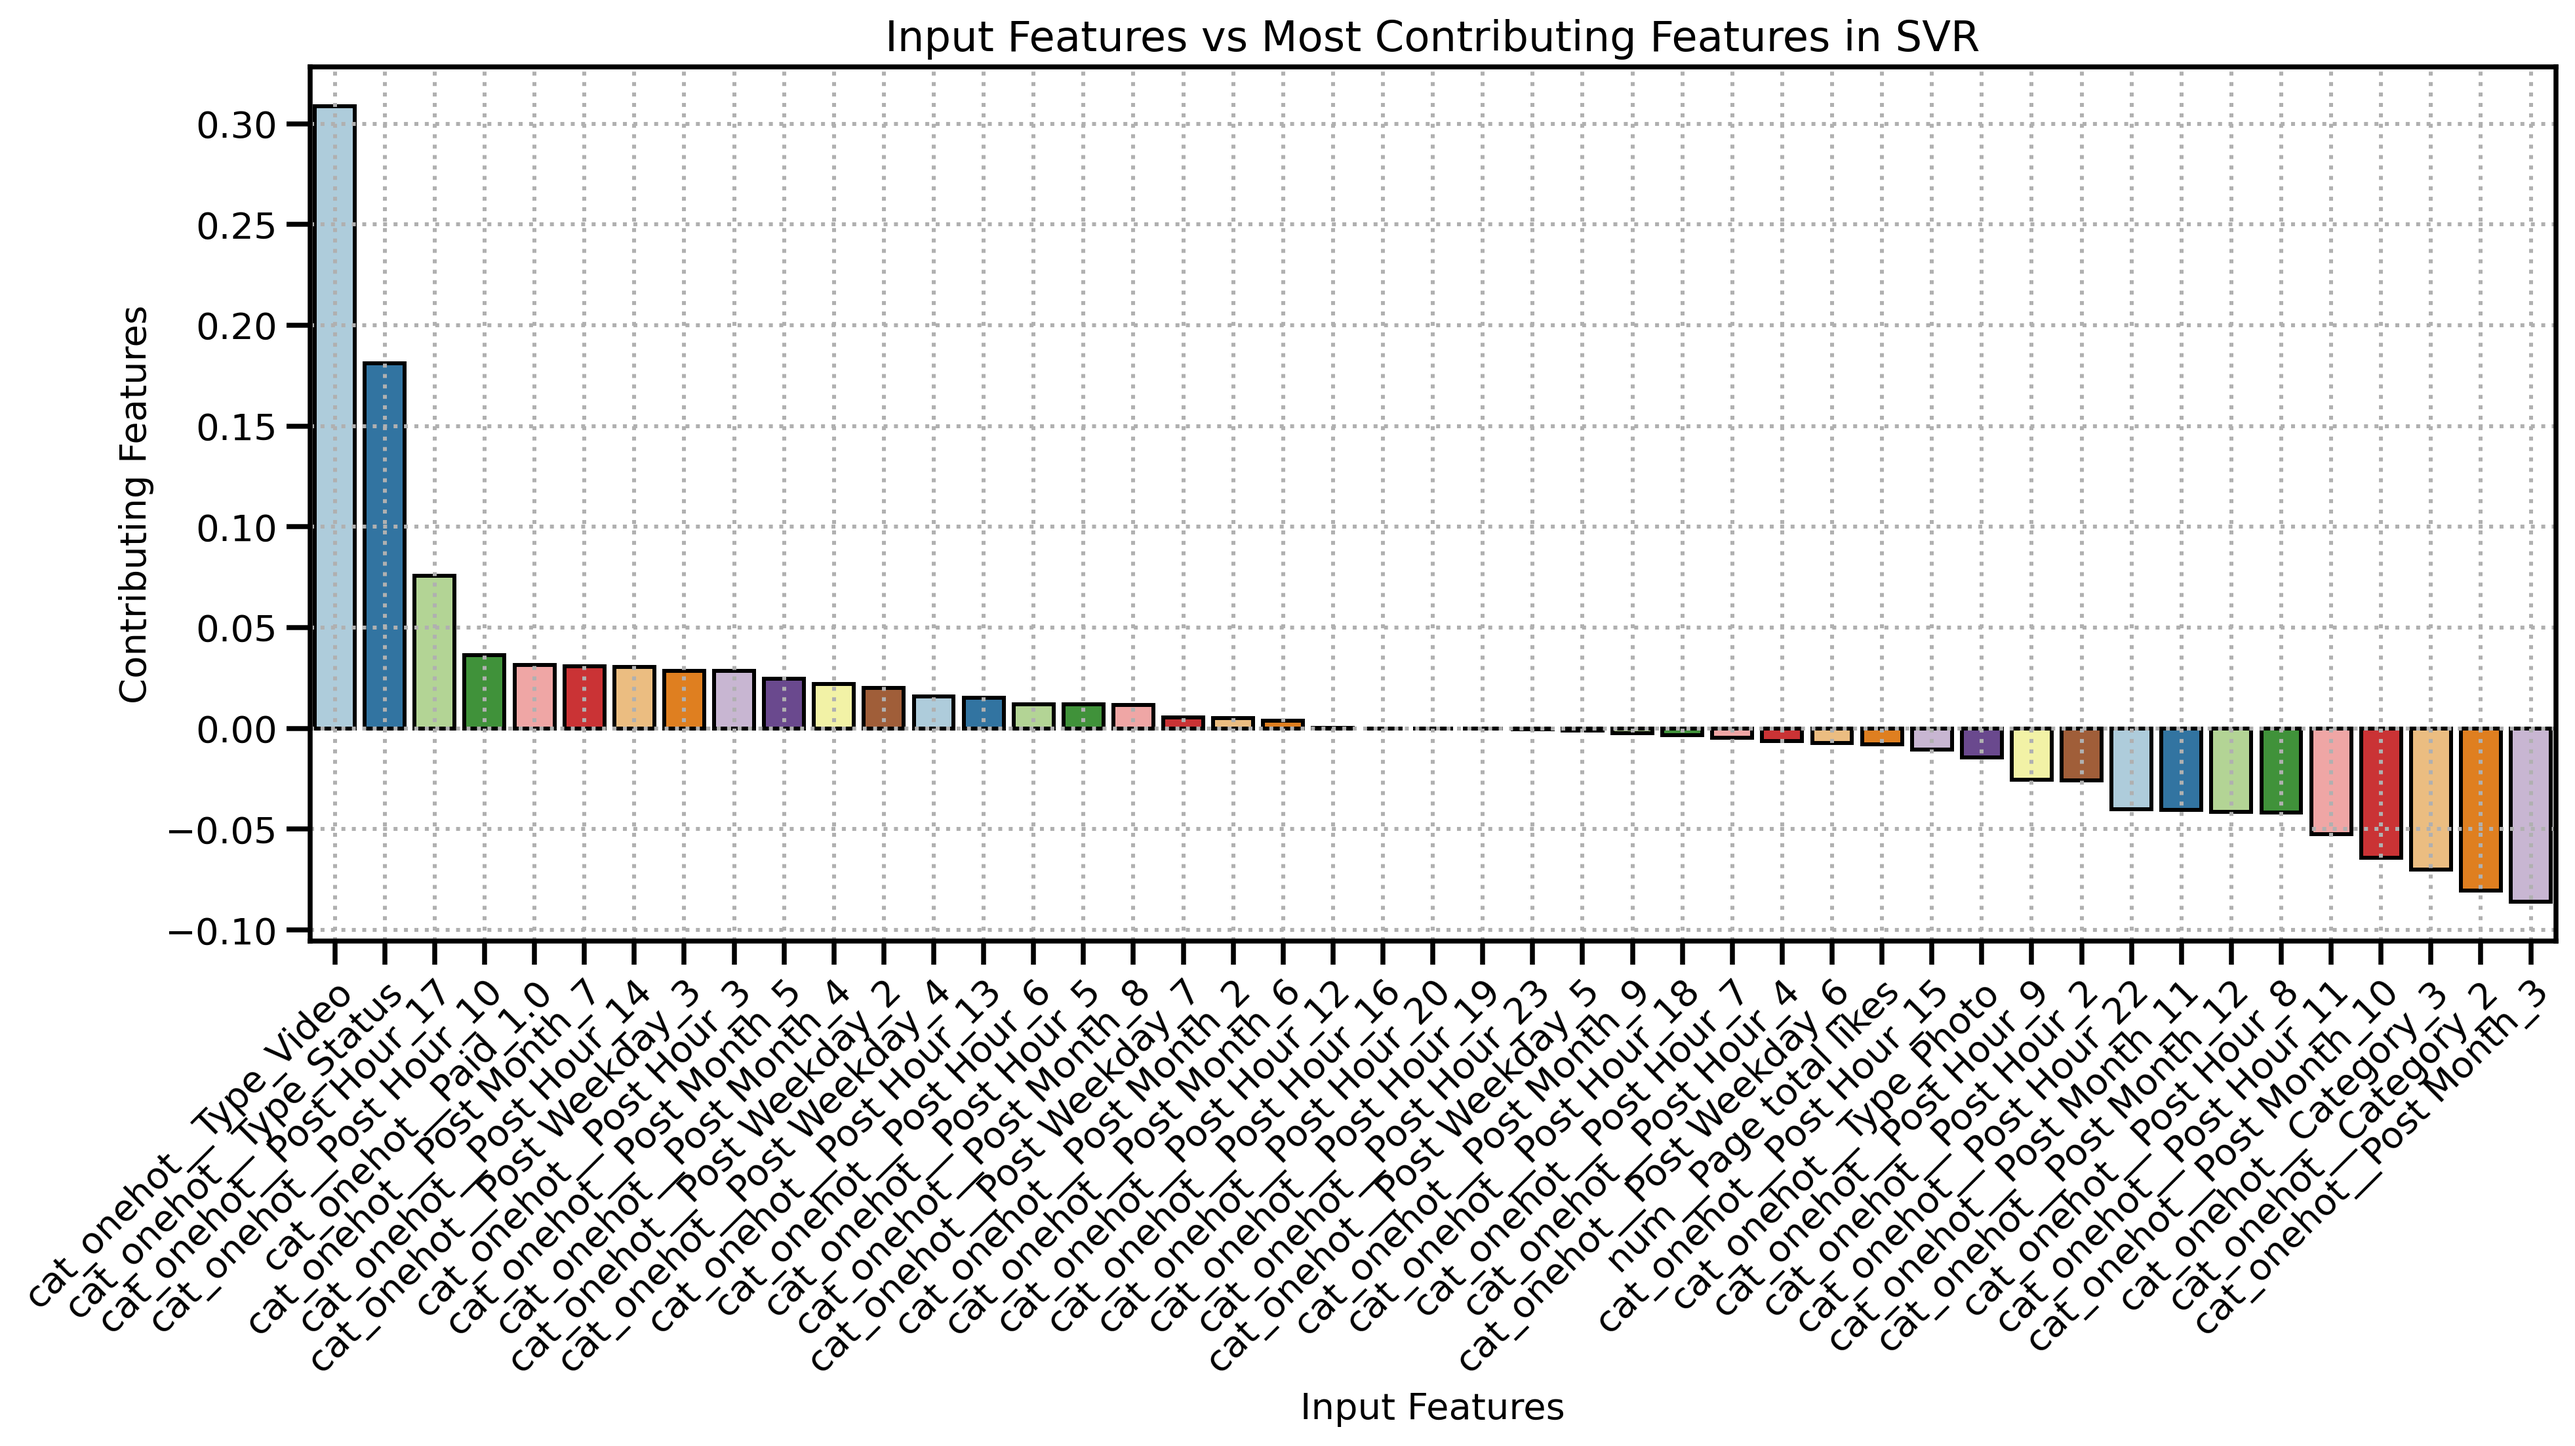
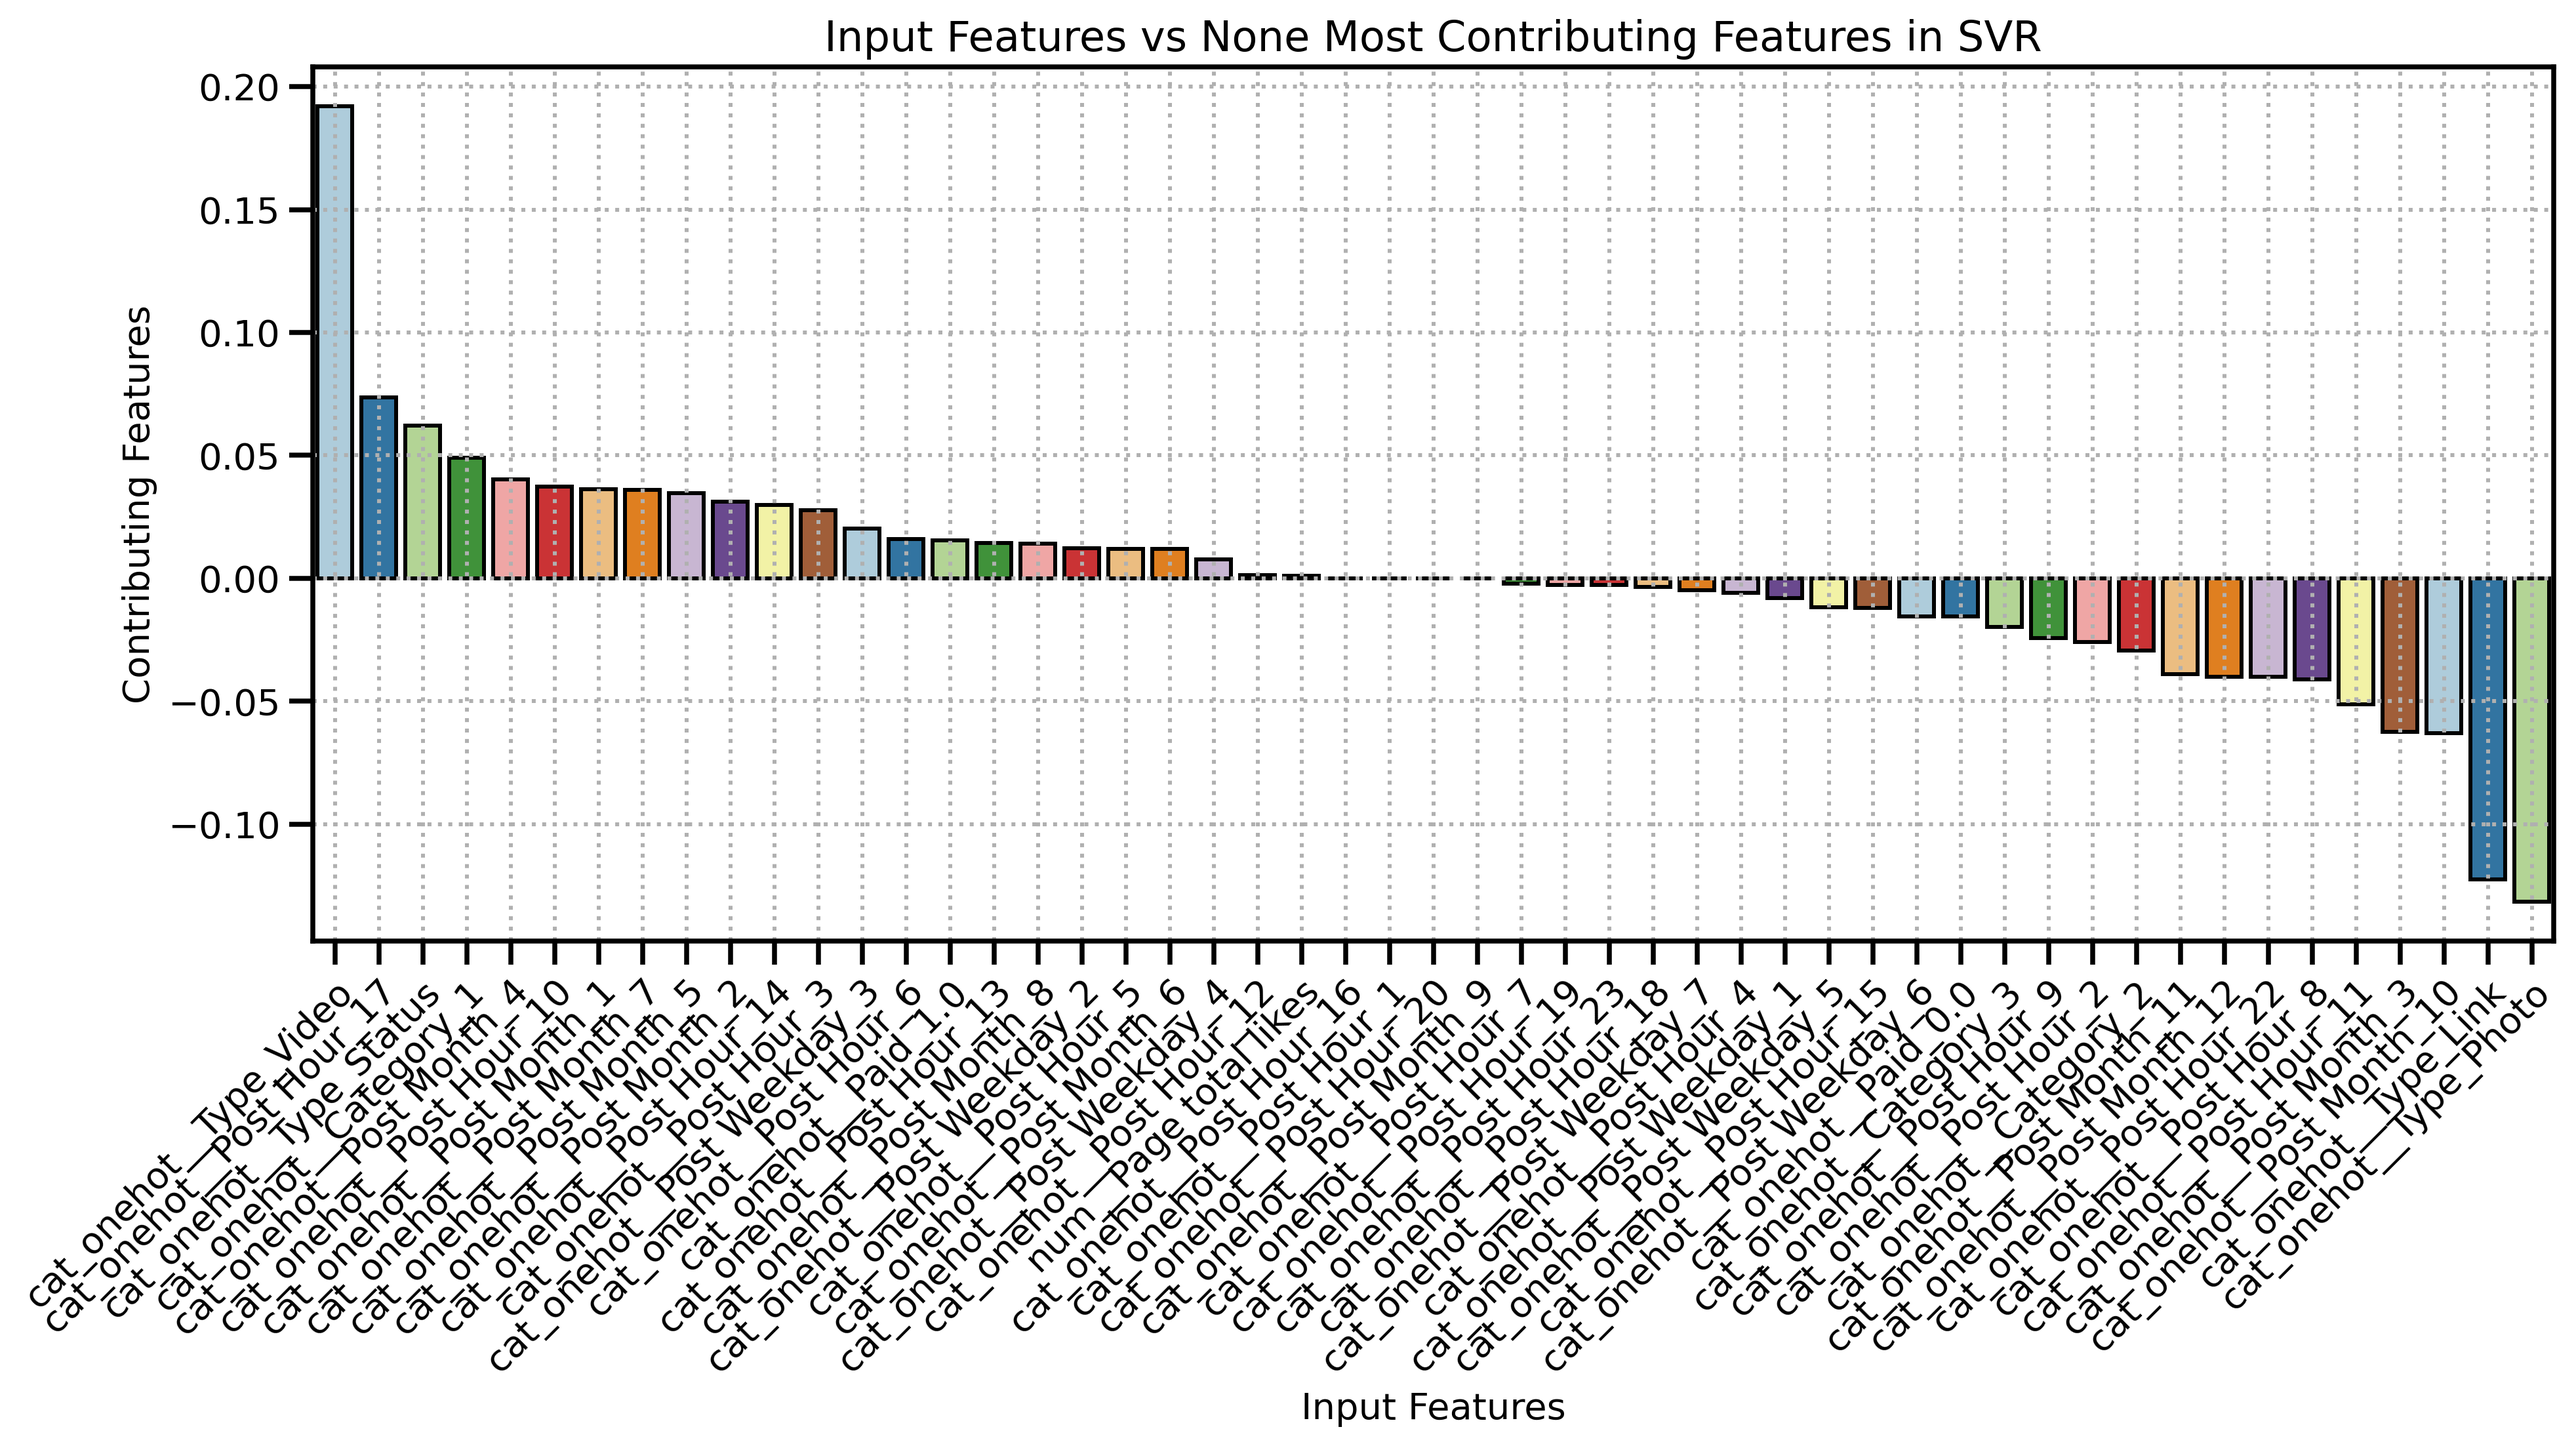
Created 'FeatureRevelance' class

diff --git a/plots.py b/plots.py
@@ -19,34 +19,49 @@ data_prep = DataPreparation(data_file)
 fb_na_tr = data_prep.transform()
 
 
-def feature_importances_plot(model, col, filename, threshold=2.0):
-    sns.set_context("talk")
-    # 12 columns for preformance metrics
-    diff_cols = fb_na_tr[0].shape[1] - len(data_prep.output_columns)
-    X = fb_na_tr[0][:, 0:diff_cols].copy()
-    y = fb_na_tr[0][:, col].copy()
-    X_thr = X[(np.abs(y) < threshold)]
-    y_thr = y[(np.abs(y) < threshold)]
-    model.fit(X_thr, y_thr)
-    features_df = pd.DataFrame({'contributing_features': model.coef_[0]},
-                               index=fb_na_tr[1][0:45])
-    sorted_features_df = features_df.sort_values(by='contributing_features', ascending=False)
-    _, axes = plt.subplots(figsize=(14, 8))
-    sns.barplot(data=sorted_features_df, x=sorted_features_df.index,
-                y=sorted_features_df['contributing_features'], palette='Paired',
-                edgecolor='k', ax=axes)
-    plt.setp(axes.get_xticklabels(), ha="right", rotation_mode="anchor", rotation=45, fontsize=14)
-    plt.setp(axes.get_yticklabels(), fontsize=14)
-    axes.set_xlabel('Input Features', fontsize=14)
-    axes.set_ylabel('Contributing Features', fontsize=14)
-    axes.set_title('Input Features vs Most Contributing Features in SVR', fontsize=16)
-    plt.tight_layout()
-    plt.grid(True, linestyle=':')
-    plt.savefig('plots/'+filename, dpi=288, bbox_inches='tight')
+class FeatureRevelance():
+    def __init__(self, data, model, perf_metric, threshold=2.0, top=None):
+        self.data = data
+        self.model = model
+        self.perf_metric = perf_metric
+        self.top = top
+
+        diff_cols = self.data[0].shape[1] - len(data_prep.output_columns)
+
+        X = self.data[0][:, 0:diff_cols].copy()
+        y = self.data[0][:, self.perf_metric].copy()
+        X_thr = X[(np.abs(y) < threshold)]
+        y_thr = y[(np.abs(y) < threshold)]
+        model.fit(X_thr, y_thr)
+        features_df = pd.DataFrame({'contributing_features': model.coef_[0]},
+                                   index=self.data[1][0:diff_cols])
+        self.sorted_features_df = features_df.sort_values(by='contributing_features',
+                                                          ascending=False)
+        # self.sorted_features_df.nlargest(top, columns='contributing_features')
+
+    def feature_importances_plot(self, filename):
+        # plot figure
+        sns.set_context("talk")
+        _, axes = plt.subplots(figsize=(14, 8))
+        sns.barplot(data=self.sorted_features_df, x=self.sorted_features_df.index,
+                    y=self.sorted_features_df['contributing_features'], palette='Paired',
+                    edgecolor='k', ax=axes)
+        plt.setp(axes.get_xticklabels(), ha="right", rotation_mode="anchor",
+                 rotation=45, fontsize=14)
+        plt.setp(axes.get_yticklabels(), fontsize=14)
+        axes.set_xlabel('Input Features', fontsize=14)
+        axes.set_ylabel('Contributing Features', fontsize=14)
+        axes.set_title(f'Input Features vs {self.top} Most Contributing Features in SVR',
+                       fontsize=16)
+        plt.tight_layout()
+        plt.grid(True, linestyle=':')
+        plt.savefig('plots/'+filename, dpi=288, bbox_inches='tight')
 
 
 svr = SVR(kernel='linear', C=0.5)
 # Feature importance plot using 'Lifetime Post reach by people who like your Page' metric
-feature_importances_plot(svr, -7, 'feature_importances_1.png')
+rel_feats_7 = FeatureRevelance(fb_na_tr, svr, -7)
+rel_feats_7.feature_importances_plot('feature_importances_1.png')
 # Feature importance plot using 'Lifetime Post Total Impressions' metric
-feature_importances_plot(svr, -11, 'feature_importances_2.png')
+rel_feats_11 = FeatureRevelance(fb_na_tr, svr, -11)
+rel_feats_11.feature_importances_plot('feature_importances_2.png')

diff --git a/data_preparation.py b/data_preparation.py
@@ -64,7 +64,7 @@ class DataPreparation():
         ])
         full_pipeline = ColumnTransformer([
             # 6 columns for categorical data
-            ('cat_onehot', OneHotEncoder(sparse=False, drop='first'), self.cat_cols),
+            ('cat_onehot', OneHotEncoder(sparse=False, drop=None), self.cat_cols),
             # 12 columns for numerical data
             ('num', num_pipeline, self.numeric_cols),
         ])
